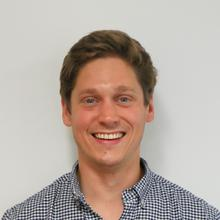
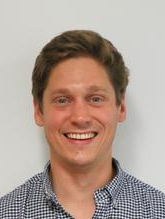
teampu

Changed region(s): [[0.0, 0.137, 1.0, 1.0], [0.5455, 0.6849, 0.5758, 0.7397]]

diff --git a/team.html b/team.html
@@ -37,13 +37,13 @@
 		
 		<div class="row botborder topborder">
 		<div class="columnleft"><img class="faces" src="images/simon.jpg" alt="CEO Simon Bates" ></div>
-		<div class="columnright">Simon is a Mechanical Engineer from Bristol University. He completed his PhD on creating structural 
+		<div class="columnright"><h1> Dr Simon Bates</h1>Simon is a Mechanical Engineer from Bristol University. He completed his PhD on creating structural 
 		parts from low-cost 3D printing in 2017. Simon also co-founded and runs a successful digital manufacturing consultancy, Clifton Digital Manufacturing. </div>
 		</div>
 		
 		<div class="row botborder">
 		<div class="columnleft"><img class="faces" src="images/dicker.jpg" alt="CTO Michael Dicker" ></div>
-		<div class="columnright">Michael is an Australian mechanical engineer, with 6 years experience working in plant 
+		<div class="columnright"><h1> Dr Michael Dicker</h1>Michael is an Australian mechanical engineer, with 6 years experience working in plant 
 		automation for manufacturing and mining firms. He moved to the UK in 2012 to do a composite 
 		materials PhD at the University of Bristol, here he researched novel actuating systems. He currently 
 		holds a Leverhulme Trust early career fellowship where he explores the energetics of artificial muscles.</div>
@@ -51,7 +51,7 @@
 		
 		<div class="row botborder">
 		<div class="columnleft"><img class="faces" src="images/tom.jpg" alt="CIO Tom Llewellyn-Jones" ></div>
-		<div class="columnright"></div>
+		<div class="columnright"><h1> Dr Thomas Llewellyn-Jones</h1></div>
 		</div>
 		
 		

diff --git a/mobile-team.html b/mobile-team.html
@@ -38,13 +38,13 @@
 		  </a>
 		</div>
 		<div class="row botborder topborder">
-		<div class="columnleft"><img class="faces" src="images/simon.jpg" alt="CEO Simon Bates"></div>
+		<div class="columnleft"><img class="facesmobile" src="images/simon.jpg" alt="CEO Simon Bates"></div>
 		<div class="columnright mobile">Simon is a Mechanical Engineer from Bristol University. He completed his PhD on creating structural 
 		parts from low-cost 3D printing in 2017. Simon also co-founded and runs a successful digital manufacturing consultancy, Clifton Digital Manufacturing. </div>
 		</div>
 		
 		<div class="row botborder">
-		<div class="columnleft"><img class="faces" src="images/dicker.jpg" alt="CTO Michael Dicker"></div>
+		<div class="columnleft"><img class="facesmobile" src="images/dicker.jpg" alt="CTO Michael Dicker"></div>
 		<div class="columnright mobile">Michael is an Australian mechanical engineer, with 6 years experience working in plant 
 		automation for manufacturing and mining firms. He moved to the UK in 2012 to do a composite 
 		materials PhD at the University of Bristol, here he researched novel actuating systems. He currently 
@@ -52,7 +52,7 @@
 		</div>
 		
 		<div class="row botborder">
-		<div class="columnleft"><img class="faces" src="images/tom.jpg" alt="CIO Tom Llewellyn-Jones"></div>
+		<div class="columnleft"><img class="facesmobile" src="images/tom.jpg" alt="CIO Tom Llewellyn-Jones"></div>
 		<div class="columnright mobile"></div>
 		</div>
 		

diff --git a/default.css b/default.css
@@ -162,8 +162,8 @@
 			max-width=1200px;
 			}
 			
-			img.faces{margin-left:10px; height:220px;width:auto; }
-			
+			img.faces{margin-left:80px; height:220px;width:auto; }
+			img.facesmobile{margin-left:5px; height:120px;width:auto; }
 			img.lefted{
 				height:200px;
 				float:left;
@@ -257,7 +257,7 @@
 			.columnright {
 			  float: left;
 			  width: 70%;
-			  padding-top:130px;
+			  padding-top:10px;
 			}
 			.botborder{
 				border-bottom:1px solid;
@@ -269,7 +269,7 @@
 			}
 			.columnleft {
 			  float: left;
-			  width: 30%;
+			  width: 20%;
 			  padding-top:50px;
 			  
 			}
